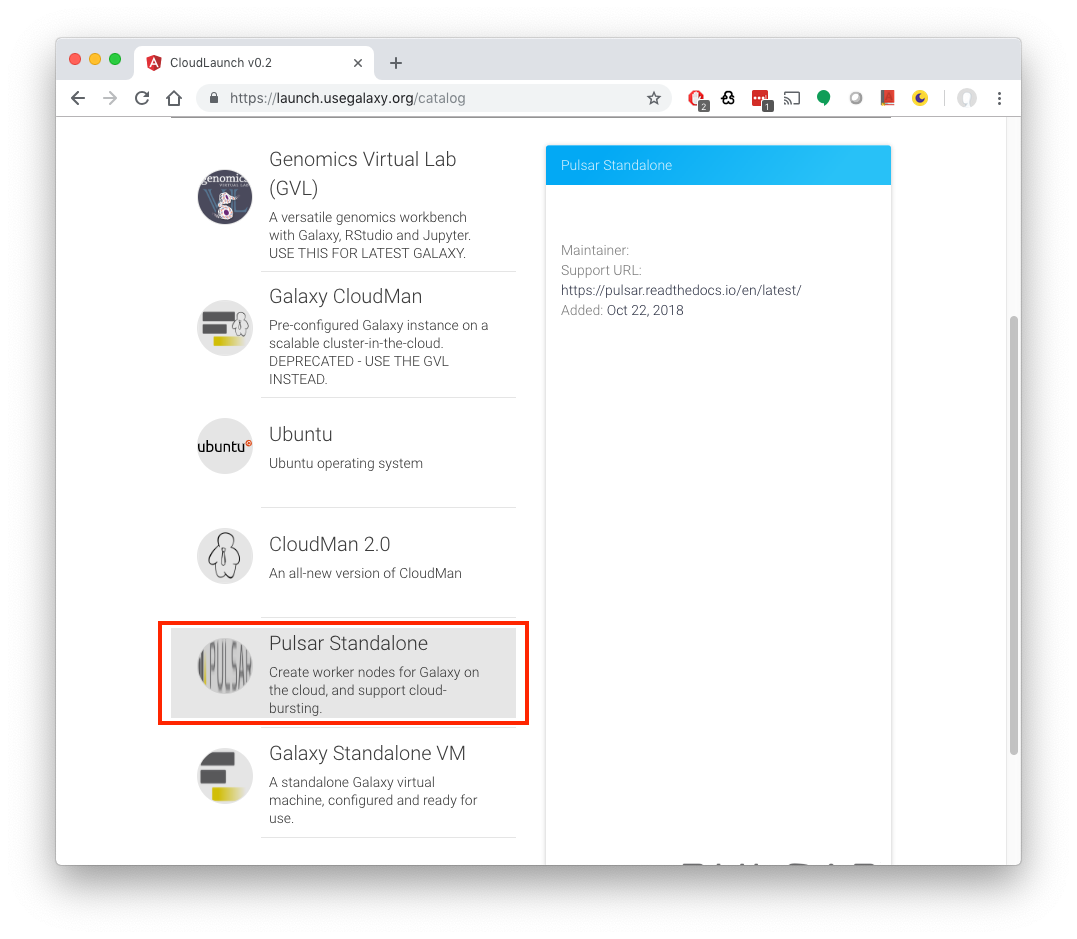
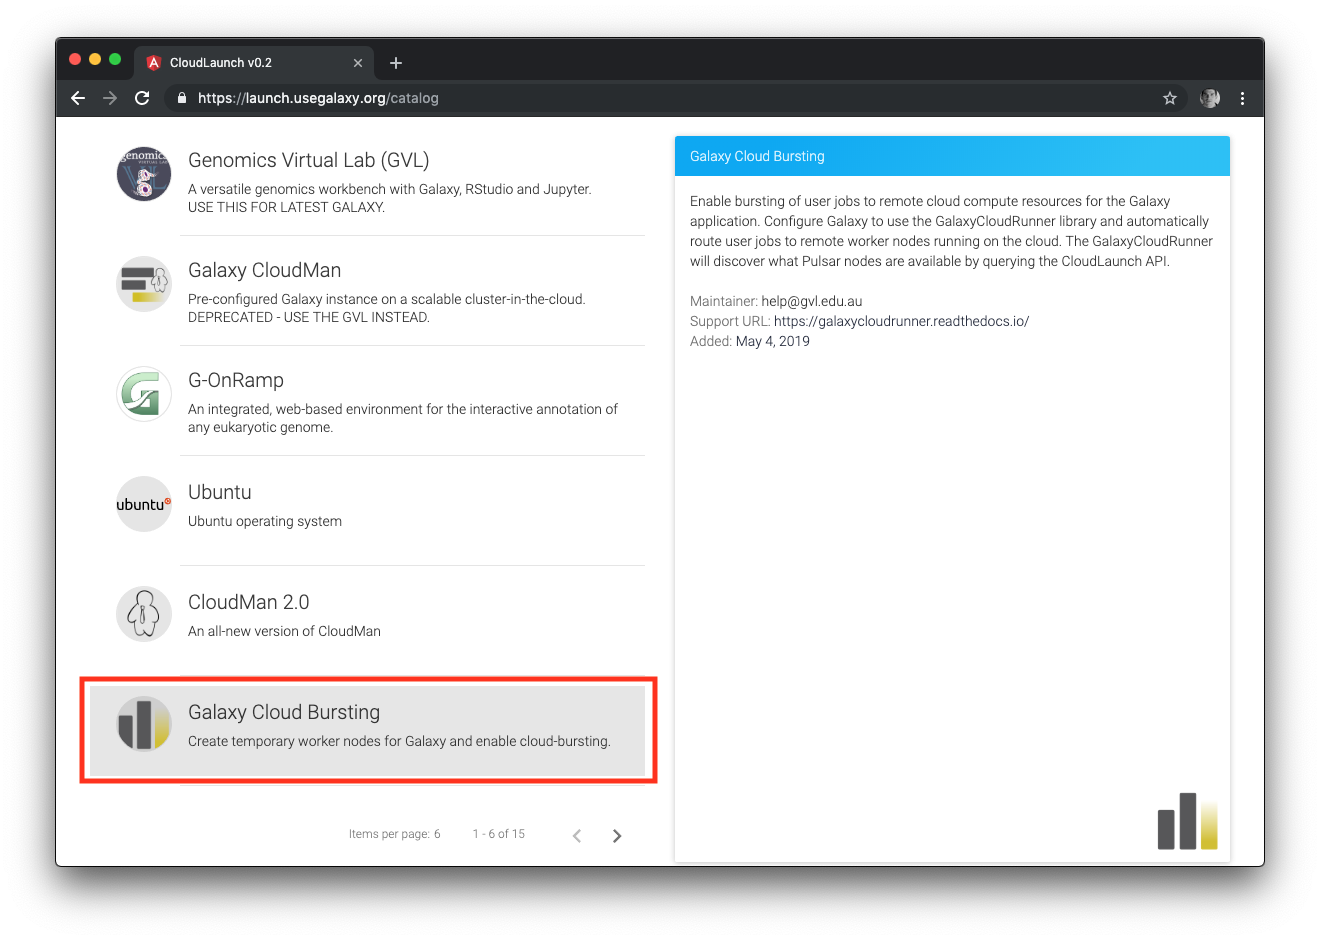
General documentation updates

Changed region(s): [[0.0306, 0.0309, 0.9805, 0.9574]]

diff --git a/docs/index.rst b/docs/index.rst
@@ -1,24 +1,19 @@
-.. GalaxyCloudRunner documentation master file, created by
-   sphinx-quickstart on Sat Nov 10 18:16:35 2018.
-   You can adapt this file completely to your liking, but it should at least
-   contain the root `toctree` directive.
-
-Welcome to GalaxyCloudRunner's documentation!
-=============================================
+GalaxyCloudRunner: job bursting for Galaxy
+==========================================
 
 GalaxyCloudRunner enables bursting of user jobs to remote compute resources for
-the `Galaxy application`_. It provides several dynamic
-job rules that can be plugged into Galaxy, enabling Galaxy to submit jobs to
-remote cloud nodes.
+the `Galaxy application`_. It provides several dynamic job rules that can be
+plugged into Galaxy, enabling Galaxy to submit jobs to remote compute nodes.
 
 How it works
 ------------
-The GalaxyCloudRunner provides a library of rules that can be plugged into Galaxy
-through ``job_conf.xml``. Once configured, you can get your jobs to be automatically
-routed to remote Pulsar nodes running on the cloud. The GalaxyCloudRunner will discover
-what Pulsar nodes are available by querying the `CloudLaunch`_ API.
-Adding a new node is a simple matter of visiting the `CloudLaunch`_ site and launching
-a new Pulsar node on your desired cloud.
+The GalaxyCloudRunner provides a library of rules that can be plugged into
+Galaxy through its configuration via ``job_conf.xml``. Once configured, Galaxy
+jobs can be automatically routed to a Galaxy remote job runner, called
+`Pulsar`_, on nodes running on the cloud. Adding a new node is a simple matter
+of visiting the `CloudLaunch`_ site and launching a new worker node on your
+desired cloud. The GalaxyCloudRunner will discover what Pulsar nodes are
+available by querying the `CloudLaunch`_ API.
 
 
 Getting Started
@@ -26,10 +21,9 @@ Getting Started
 Getting started with the GalaxyCloudRunner is a simple process.
 
 1. First, install ``galaxycloudrunner`` library into your Galaxy's virtual environment
-2. Add a job rule to Galaxy which will determine the Pulsar node to route to
-3. Configure Galaxy's ``job_conf.xml`` file to use this rule
-4. Launch as many Pulsar nodes as you need through `CloudLaunch`_
-5. Submit jobs as usual
+2. Configure Galaxy to use GalaxyCloudRunner job destination rules
+3. Launch as many worker nodes as you need through `CloudLaunch`_
+4. Submit jobs as usual
 
 
 .. toctree::
@@ -50,4 +44,5 @@ Indices and tables
 * :ref:`search`
 
 .. _Galaxy application: https://galaxyproject.org/
+.. _Pulsar: https://pulsar.readthedocs.io/en/latest/
 .. _CloudLaunch: https://launch.usegalaxy.org/

diff --git a/docs/topics/additional_notes.rst b/docs/topics/additional_notes.rst
@@ -8,10 +8,9 @@ Additional Configuration and Limitations
    You can set the environment variable ``CLOUDLAUNCH_QUERY_CACHE_PERIOD``
    before starting Galaxy to control the caching period (in seconds). Setting
    this to 0 will allow you to get around the node removal issue where, if a
-   Pulsar node is removed, your jobs may be routed to a dead node for the
-   duration of the caching period. However, we recommend setting a value greater
-   than 0 to avoid repeatedly querying a remote server during each job
-   submission.
+   Pulsar node is removed, jobs may be routed to a dead node for the duration of
+   the caching period. However, we recommend setting a value greater than 0 to
+   avoid repeatedly querying a remote server during each job submission.
 
 2. Incompatible tools
 
@@ -26,8 +25,9 @@ Additional Configuration and Limitations
 3. Auto-scaling
 
    Currently, the GalaxyCloudRunner does not support automatic scaling, you must
-   manually add and remove nodes. We will be adding autoscaling features as
-   part of CloudMan v2.0 in future.
+   manually add and remove individual nodes but you can add as many as you would
+   like. We will be adding autoscaling features as part of CloudMan v2.0 in
+   future.
 
 4. Galaxy versions prior to 19.01
 

diff --git a/docs/topics/configure_job_conf.rst b/docs/topics/configure_job_conf.rst
@@ -1,4 +1,4 @@
-Job configuration for Galaxy v19.01 or higher
+Job configuration for Galaxy 19.01 or higher
 ==============================================
 
 Simple configuration
@@ -130,7 +130,7 @@ a configuration like the following.
    :linenos:
    :emphasize-lines: 20-23
 
-Galaxy versions prior to v19.01 do not support chaining dynamic rules, and
+Galaxy versions prior to 19.01 do not support chaining dynamic rules, and
 therefore, we have provided a single monolithic rule that can handle both
 scenarios.
 

diff --git a/docs/topics/add_pulsar_node.rst b/docs/topics/add_pulsar_node.rst
@@ -2,7 +2,7 @@ Adding new Pulsar nodes
 -----------------------
 
 1. To launch a new Pulsar node, go to `https://launch.usegalaxy.org/`_
-2. Select the ``Pulsar Standalone`` appliance.
+2. Select the ``Galaxy Cloud Bursting`` appliance.
 
 .. image:: ../images/pulsar_select_appliance.png
 
